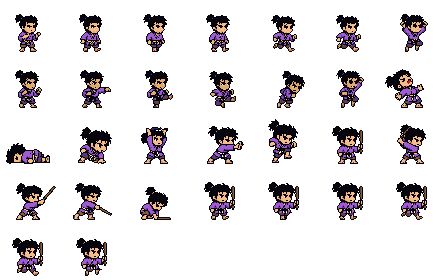
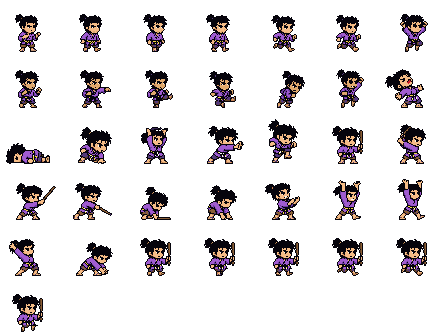
Add grab/carry/swing animations from the fifth sheet
Lifting a downed enemy, carrying one overhead (two-step walk) and
swinging it now have dedicated frames instead of one shared pose.

Claude-Session: https://claude.ai/code/session_01KouGMWYSekaVGUzjPxXwcU

diff --git a/tools/build_sprites.py b/tools/build_sprites.py
@@ -43,6 +43,8 @@ SHEETS = [
          ref="idle_w", main_only=True, skip=["throwstick"]),
     dict(file="sheet-hurt.png", grid=(3, 2), names=["hurt", "lying", "getup", "hold", "throw", "stomp"],
          scale_from="sheet-weapon.png", main_only=True, erase_rock=["hold"], flip=["lying"]),
+    dict(file="sheet-grab.png", grid=(3, 2), names=["grab", "lift", "carry1", "carry2", "windswing", "smash"],
+         scale_from="sheet-weapon.png", main_only=True),
 ]
 
 # palette: name -> base colour; fringe entries collapse into the outline
@@ -94,6 +96,7 @@ BASE_FRAMES = [
     "windup", "punch", "kick", "flykick", "dash", "upper",
     "hurt", "lying", "getup", "hold", "throw", "stomp",
     "idle_w", "swing1", "swing2", "swing3", "pick",
+    "grab", "lift", "carry1", "carry2", "windswing", "smash",
 ]
 # lower body from these frames is grafted under the upper body of idle_w (armed stance)
 ARMED = {"walk1_w": "walk1", "walk2_w": "walk2", "walk3_w": "walk3",
@@ -123,14 +126,14 @@ ANIMS = {
     "pick": (["pick"], [60]),
     "swing": (["swing1", "swing2", "swing3"], [5, 4, 13]),
     "throw": (["throw"], [60]),
-    "lift": (["hold"], [60]),
-    "hold": (["hold"], [60]),
-    "holdswing": (["hold"], [60]),
+    "lift": (["grab", "lift", "carry1"], [5, 5, 4]),
+    "hold": (["carry1", "carry2"], [12, 12]),
+    "holdswing": (["windswing", "smash", "carry1"], [6, 8, 10]),
     "stomp": (["windup", "stomp", "windup"], [4, 8, 8]),
     "beam": (["throw"], [60]),
     "shoot": (["windup", "punch", "windup"], [2, 6, 2]),
 }
-LOOPING = {"walk", "run", "walk_w", "run_w"}
+LOOPING = {"walk", "run", "walk_w", "run_w", "hold"}
 
 
 def key_background(im: np.ndarray) -> np.ndarray:

diff --git a/README.md b/README.md
@@ -92,7 +92,7 @@ python3 tools/build_sprites.py --preview preview.png
 
 工具會自動去背、切格、縮成遊戲大小、對齊腳底、限制調色盤，並輸出四個換色角色與 `assets/manifest.json`。`preview.png` 可以快速檢查每一格。
 
-目前已有的動作：待機、走路、跑步、跳、出拳、踢、跳踢、衝撞、昇龍拳、受傷、倒地、起身、舉敵、丟、踩、撿東西、揮棍，以及持棍時的待機／走路／跑步／跳（上半身用持棍姿勢，下半身接走路的腳）。
+目前已有的動作：待機、走路、跑步、跳、出拳、踢、跳踢、衝撞、昇龍拳、受傷、倒地、起身、抓起／扛著／揮舞敵人、丟、踩、撿東西、揮棍，以及持棍時的待機／走路／跑步／跳（上半身用持棍姿勢，下半身接走路的腳）。尚缺：特殊技的專屬姿勢，以及竹刀、光劍、石頭、步槍的專屬姿勢（目前借用赤手姿勢再疊上武器）。
 
 ### 使用自己的圖
 
